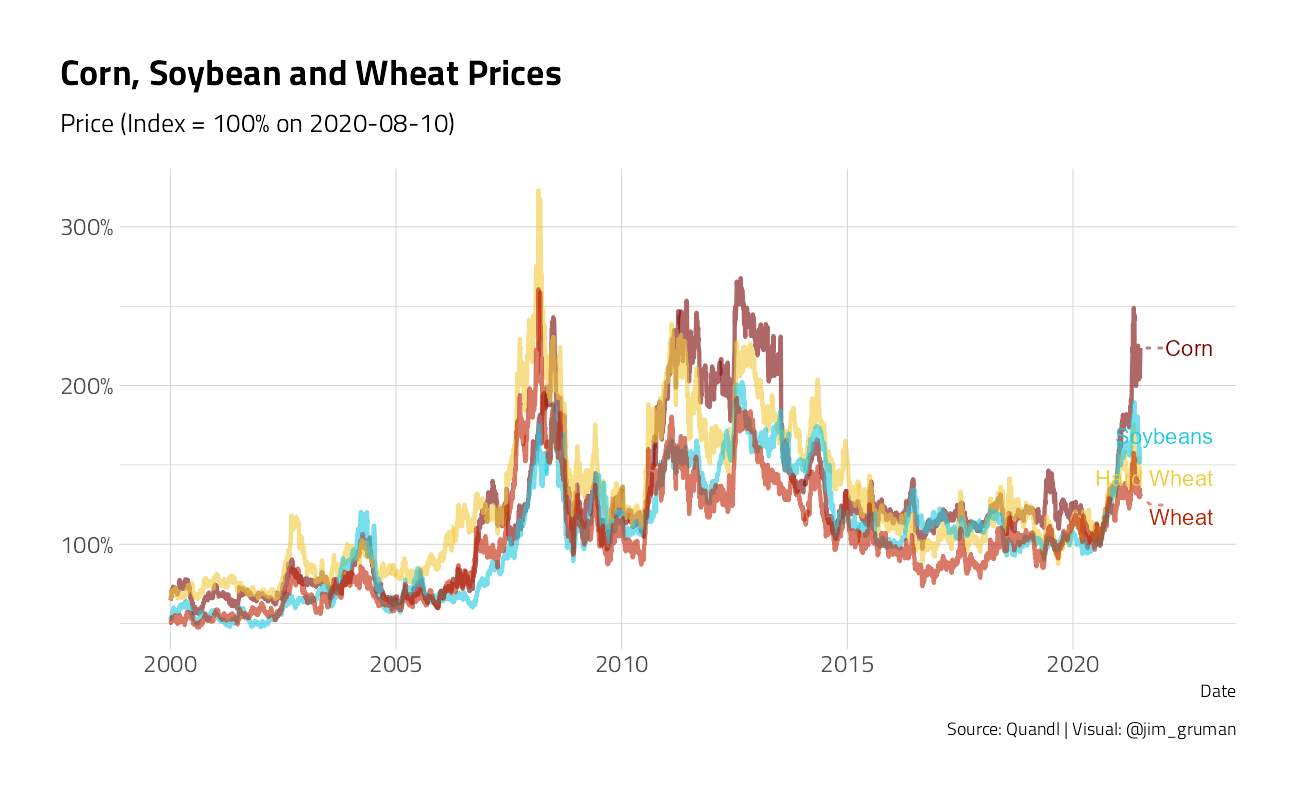
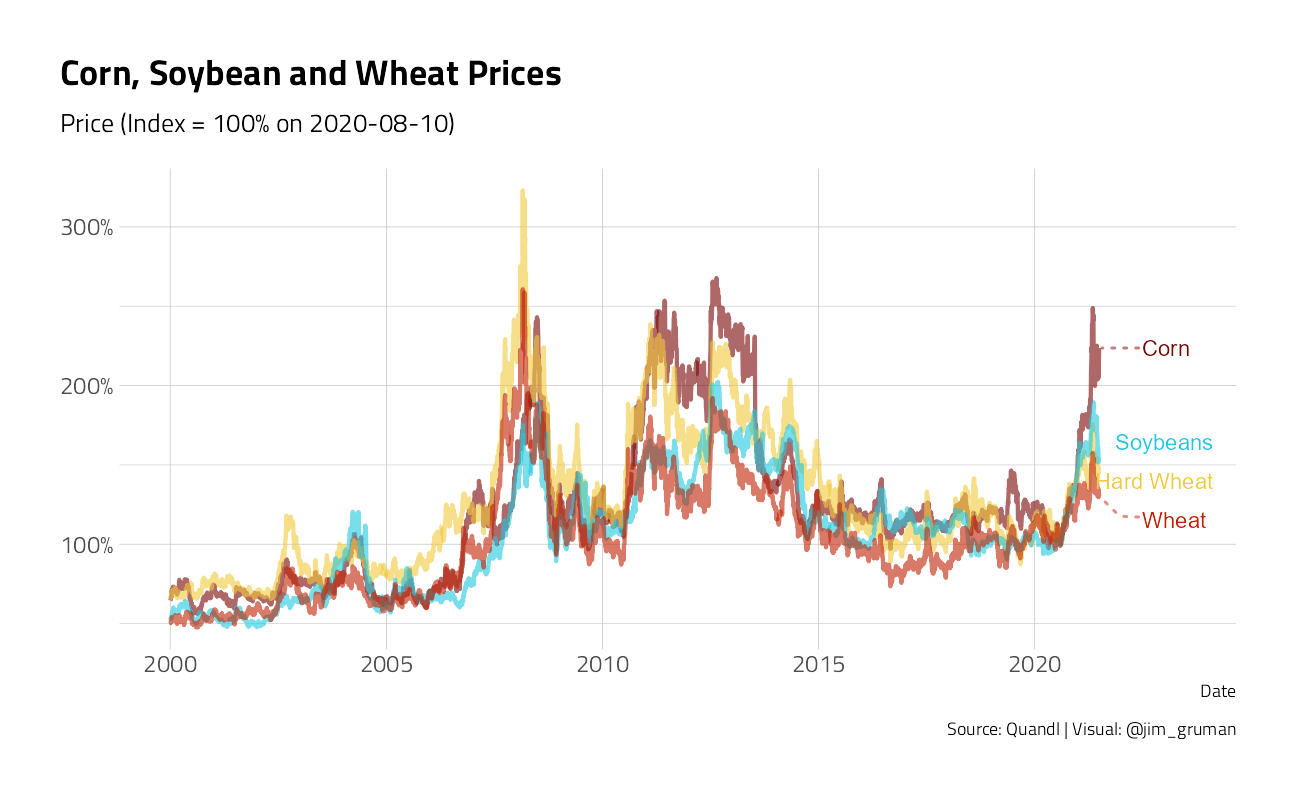
Build site.

diff --git a/docs/NASSStocksToUse.html b/docs/NASSStocksToUse.html
@@ -404,16 +404,16 @@ This reproducible <a href="http://rmarkdown.rstudio.com">R Markdown</a> analysis
 <div class="panel panel-default">
 <div class="panel-heading">
 <p class="panel-title">
-<a data-toggle="collapse" data-parent="#workflowr-checks" href="#strongRepositoryversionstrongahrefhttpsgithubcomopus1993myTidyTuesdaytree1c0244747ea918c54973bc61f8cb57d44e6970detargetblank1c02447a"> <span class="glyphicon glyphicon-ok text-success" aria-hidden="true"></span> <strong>Repository version:</strong> <a href="https://github.com/opus1993/myTidyTuesday/tree/1c0244747ea918c54973bc61f8cb57d44e6970de" target="_blank">1c02447</a> </a>
+<a data-toggle="collapse" data-parent="#workflowr-checks" href="#strongRepositoryversionstrongahrefhttpsgithubcomopus1993myTidyTuesdaytree2fb25f8603aae019dba8bb17ed7012fb2bfadbf1targetblank2fb25f8a"> <span class="glyphicon glyphicon-ok text-success" aria-hidden="true"></span> <strong>Repository version:</strong> <a href="https://github.com/opus1993/myTidyTuesday/tree/2fb25f8603aae019dba8bb17ed7012fb2bfadbf1" target="_blank">2fb25f8</a> </a>
 </p>
 </div>
[2 lines of base64/hex data omitted]
 <div class="panel-body">
 <p>
 Great! You are using Git for version control. Tracking code development and connecting the code version to the results is critical for reproducibility.
 </p>
 <p>
-The results in this page were generated with repository version <a href="https://github.com/opus1993/myTidyTuesday/tree/1c0244747ea918c54973bc61f8cb57d44e6970de" target="_blank">1c02447</a>. See the <em>Past versions</em> tab to see a history of the changes made to the R Markdown and HTML files.
+The results in this page were generated with repository version <a href="https://github.com/opus1993/myTidyTuesday/tree/2fb25f8603aae019dba8bb17ed7012fb2bfadbf1" target="_blank">2fb25f8</a>. See the <em>Past versions</em> tab to see a history of the changes made to the R Markdown and HTML files.
 </p>
 <p>
 Note that you need to be careful to ensure that all relevant files for the analysis have been committed to Git prior to generating the results (you can use <code>wflow_publish</code> or <code>wflow_git_commit</code>). workflowr only checks the R Markdown file, but you know if there are other scripts or data files that it depends on. Below is the status of the Git repository when the results were generated:
@@ -467,6 +467,40 @@ Message
 </tr>
 </thead>
 <tbody>
+<tr>
+<td>
+Rmd
+</td>
+<td>
+<a href="https://github.com/opus1993/myTidyTuesday/blob/2fb25f8603aae019dba8bb17ed7012fb2bfadbf1/analysis/NASSStocksToUse.Rmd" target="_blank">2fb25f8</a>
+</td>
+<td>
+opus1993
+</td>
+<td>
+2021-09-09
+</td>
+<td>
+extend labels to be more readable
+</td>
+</tr>
+<tr>
+<td>
+html
+</td>
+<td>
+<a href="https://rawcdn.githack.com/opus1993/myTidyTuesday/c9cbd639e5f5baf88151fcba7ec58cb65085dc7a/docs/NASSStocksToUse.html" target="_blank">c9cbd63</a>
+</td>
+<td>
+opus1993
+</td>
+<td>
+2021-09-09
+</td>
+<td>
+Build site.
+</td>
+</tr>
 <tr>
 <td>
 Rmd
@@ -676,8 +710,14 @@ pprices2000 &lt;- df2 %&gt;%
   geom_line(size = 1, alpha = 0.6, show.legend = FALSE) +
   scale_y_continuous(labels = scales::percent_format(accuracy = 1)) +
   scale_x_date(
-    limits = c(ymd(start_date), max(df2$Date) %m+% months(12)),
-    breaks = seq.Date(ymd(start_date), ymd(&quot;2020-01-01&quot;), by = &quot;5 years&quot;),
+    limits = c(
+      ymd(start_date),
+      max(df2$Date) %m+% years(2)
+    ),
+    breaks = seq.Date(ymd(start_date),
+      ymd(&quot;2020-01-01&quot;),
+      by = &quot;5 years&quot;
+    ),
     minor_breaks = NULL,
     date_labels = &quot;%Y&quot;
   ) +
@@ -685,7 +725,7 @@ pprices2000 &lt;- df2 %&gt;%
     data = . %&gt;% filter(Date == max(df2$Date)),
     aes(label = name),
     direction = &quot;y&quot;,
-    xlim = c(max(df2$Date) %m+% months(9), NA),
+    xlim = c(max(df2$Date) %m+% years(1), NA),
     hjust = 0,
     segment.size = .7,
     segment.alpha = .5,
@@ -716,24 +756,26 @@ pprices2020 &lt;- df2 %&gt;%
     `Hard Wheat` = HRW / max(ifelse(Date == min_date, HRW, 0))
   ) %&gt;%
   pivot_longer(-Date) %&gt;%
-  filter(between(Date, ymd(&quot;2020-01-01&quot;), ymd(&quot;2020-12-31&quot;))) %&gt;%
+  filter(year(Date) == 2020) %&gt;%
   ggplot(aes(x = Date, y = value, color = name), show.legend = FALSE) +
   geom_line(size = 1, alpha = 0.6, show.legend = FALSE) +
   scale_y_continuous(labels = scales::percent_format(accuracy = 1)) +
   scale_x_date(
     limits = c(ymd(&quot;2020-01-01&quot;), ymd(&quot;2021-02-01&quot;)),
     breaks = seq.Date(ymd(&quot;2020-01-01&quot;),
-      ymd(&quot;2021-01-01&quot;),
+      ymd(&quot;2021-12-01&quot;),
       by = &quot;month&quot;
     ),
     minor_breaks = NULL,
     date_labels = &quot;%b&quot;
   ) +
   geom_text_repel(
-    data = . %&gt;% filter(Date == ymd(&quot;2021-01-01&quot;)),
+    data = . %&gt;%
+      filter(year(Date) == 2020) %&gt;%
+      filter(Date == max(Date)),
     aes(label = name),
     direction = &quot;y&quot;,
-    xlim = c(ymd(&quot;2021-01-01&quot;) %m+% months(1), NA),
+    xlim = c(ymd(&quot;2021-02-01&quot;), NA),
     hjust = 0,
     segment.size = .7,
     segment.alpha = .5,
